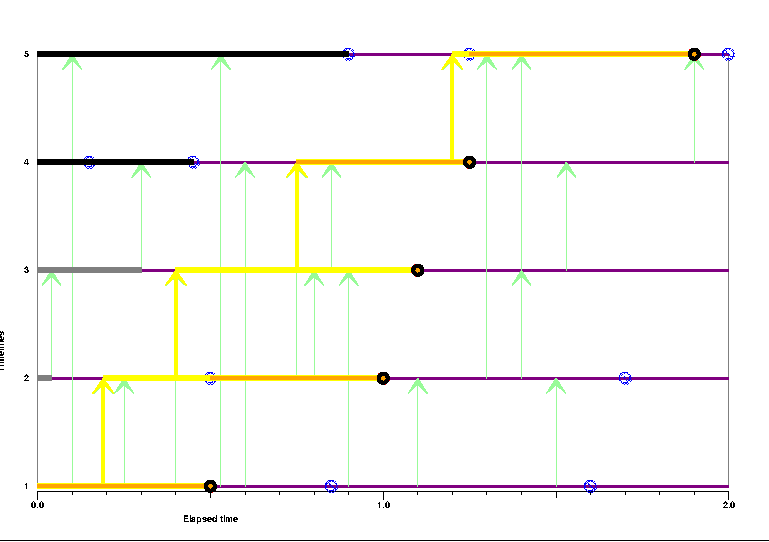
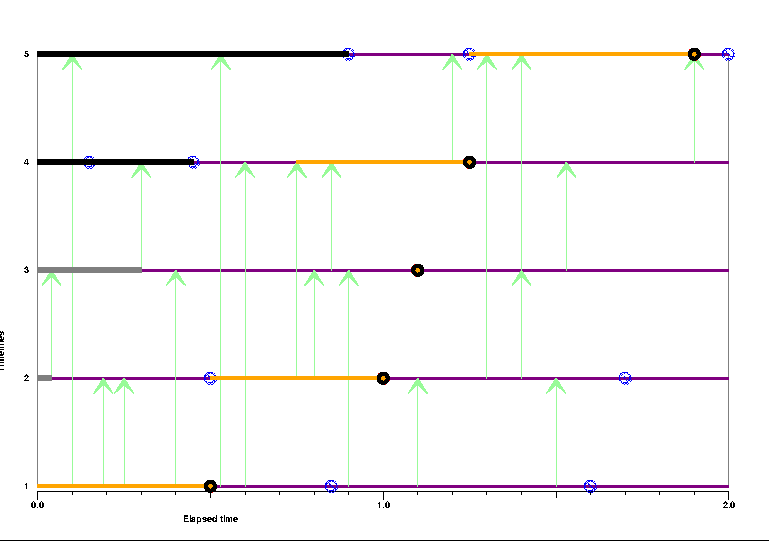
I've now replaced all figures with figures generated from python3 program. HOWEVER I believe this now reveals some issues with the python3 program! More later.

Changed region(s): [[0.0624, 0.2952, 0.5306, 0.9151], [0.5618, 0.0886, 0.8739, 0.2952]]

diff --git a/PerfectEpidemics.tex b/PerfectEpidemics.tex
@@ -1185,8 +1185,8 @@ actual infection of that time-line.
 % \NB[WSK3]{Confusing to talk about rates here?}
 
 % = = = = = = = = = = = = = = = = = = = = = = =  
-\subsection{Evolution of the constrained Markov chain}\label{ssec:evolution}
-\NB[WSK3]{Better and more expressive title for Section \ref{ssec:evolution}?}
+\subsection{Detailed description of the constrained Markov chain}\label{ssec:evolution}
+\xNB[WSK3]{Better and more expressive title for Section \ref{ssec:evolution}?}
 % Subsection 4.3: discussion of the way in which
 % the constrained Markov chain evolves, simplifying
 % the algorithmic state to aid computation and
@@ -1194,13 +1194,26 @@ actual infection of that time-line.
 
 It is helpful to develop a vocabulary describing the boundaries of five regions of time-line space, depending implicitly on the algorithmic time. For \(m=1\),\ldots, \(n\) and \(k\in\Integers\), at algorithmic time \(\tau=2kT\) we denote by \(\Infections^m_k\) the point-set of active or potential infections originating from time-line \(m\) occurring before removal time \(\rho^m\).%
 \xNB[WSK2]{Is ``realized'' the opposite of ``potential''? I think the use of this terminology needs careful checking: I suspect it is used carelessly in the present text.}
-Similarly, we may consider the point-set \(\Removals^m_k\) of potential removals assigned to time-line \(m\) occurring before removal time \(\rho^m\):
-\[ \Removals^m_k = \{t\,:\, [t;m] \in \Poisson_k, \text{with }  0\le t\le \rho^m \} \,.\]
+Similarly, we may consider the point-set \(\Removals^m_k\) of potential removals assigned to time-line \(m\) occurring before removal time \(\rho^m\).
+Thus
+\NB[WSK3]{SBC please check explicit definition of $\Infections^m_k$!}
 \xNB[SBC]{Is this notation potentially confusing, when we're using $R_t$ for removal process?} %
+\begin{align*}
+ \Infections^m_k \quad&=\quad 
+ \{t\,:\, [t;m,n] \in \Poisson_k, 
+     \text{with }  0\le t\le \rho^m \} \,,
+ \\
+ \Removals^m_k   \quad&=\quad
+ \{t\,:\, [t;m] \in \Poisson_k, 
+     \text{with }  0\le t\le \rho^m \} \,.
+\end{align*}
+% \[ \Removals^m_k = \{t\,:\, [t;m] \in \Poisson_k, \text{with }  0\le t\le \rho^m \} \,.\]
 We denote the point-set of \emph{conditioned} removals
-assigned to time-line \(m\) at algorithmic time \(\tau=2kT\) by \(\Conditioned^m_k\). We shall write 
-\[ \Conditioned^{m:n}_k = \bigcup_{s=m}^n \Conditioned^s_k \,, \quad\text{and}\quad \Removals^{1:m}_k = \bigcup_{s=1}^m \Removals^s_k \,. \]
+assigned to time-line \(m\) at algorithmic time \(\tau=2kT\) by \(\Conditioned^m_k\). 
+Additionally,
 \xNB[SBC]{Possibly simplify notation by replacing $\Conditioned^{m+}$ with $\Conditioned^{m:n}$ and $\Removals^{m-}$ with $\Removals^{1:m}$?}
+% . We shall write 
+\[ \Conditioned^{m:n}_k = \bigcup_{s=m}^n \Conditioned^s_k \,, \quad\text{and}\quad \Removals^{1:m}_k = \bigcup_{s=1}^m \Removals^s_k \,. \]
 % \xNB[WSK2]{Consider avoiding superscripting by referring to (process-time) point-sets rather than individual incidents.}
 % Finally we denote by  \(\mu_m\) the mark for the realized removal on time-line \(m\) (occurring at process-time \(\rho^m\)).
 % \xNB[SBC]{Possibly simplify notation by replacing $\Conditioned^{m+}$ with $\Conditioned^m$ and $\Removals^{m-}$ with $\Removals^m$?}
@@ -1218,7 +1231,14 @@ However it is always possible for \(\Removals^m_k=\emptyset\) for some or all \(
  The first region is the \emph{``no-fly'' zone}.%
 \xNB[WSK2]{Do we need specifically to define the no-fly zone boundary? SBC: yes, I think so.}
  This is made up of initial portions of time-lines defined by the property, if a time-line point in this region is infected then there will result an unconditioned removal.
- At algorithmic time \(\tau=2kT\), the boundary of the no-fly zone is located at process time \(\xi^m_k\) for time-line \(m\), defined inductively by
+ At algorithmic time \(\tau=2kT\), the 
+%  boundary of the 
+ no-fly zone is 
+ given by \([0,\xi^m_k]\)
+%  located at process time \(\xi^m_k\) 
+ for time-line \(m\), 
+ where \(\xi^m_k\) is
+ defined inductively by 
  \begin{align}\label{eq:boundary-time}
  \xi^n_k \quad=&\quad \sup \Removals^{1:n}_k\,,  
  &\text{ the last unrealized removal on or below time-line }n\,,
@@ -1226,13 +1246,15 @@ However it is always possible for \(\Removals^m_k=\emptyset\) for some or all \(
  \xi^m_k \quad=&\quad \sup \Removals^{1:m}_k \vee \sup\left\{\Infections^m_k\cap[0,\xi^{m+1}_k\right)\}
  &\text{ if }1<m<n\,.
  \end{align}
- (Here and throughout we use the convention that \(\sup\emptyset:=-\infty\)
- and \(\inf\emptyset:=\infty\).) Thus by construction \(\xi^m_k\) must be increasing in \(m\).
- Proposals of potential infections of ``no-fly'' portions of time-lines must be forbidden.
- Figure \ref{fig:no-fly} illustrates this construction.
+ (Here and throughout we use the convention that \(\sup\emptyset=-\infty\)
+ and \(\inf\emptyset=\infty\).) Thus by construction \(\xi^m_k\) must be increasing in \(m\).
+ Proposals of potential infections of no-fly portions of time-lines must be forbidden.
+ Figure \ref{fig:no-fly} illustrates the construction
+ of the no-fly zone.
  \begin{Figure}
   \includegraphics[width=3in]{no-fly}
-  \caption{Illustration of ``No-fly'' zone (heavy black / grey lines starting from left of figure along time-lines) for this graphical representation. Note also the
+  \caption{Illustration of no-fly zone (heavy black / grey lines starting from left of figure along time-lines) for this graphical representation. 
+  Note in passing the
   ``late zone'', composed of portions of time-lines \emph{after} actual removals.
   \label{fig:no-fly}}
  \end{Figure}
@@ -1260,13 +1282,21 @@ However it is always possible for \(\Removals^m_k=\emptyset\) for some or all \(
 \NB[SBC]{I've added reference to the no-fly zone into this definition. Poss not needed under conditioning, but I think that it makes the proof of monotonicity clearer later on.}
  Note that \(\phi^m_k=\infty\) cannot be allowed to occur for any \(m\) if we condition on all individuals eventually being removed.%
 \xNB[WSK2]{Reformulate (\ref{eq:epidemic}) in a manner similar to that of (\ref{eq:last-epidemic}): avoid the case of $\infty$ by noting this won't happen under conditioning.}
- Necessarily the epidemic must avoid the no-fly zone. Figure \ref{fig:epidemic} illustrates this construction.
+ Necessarily the epidemic must avoid the no-fly zone. Figure \ref{fig:epidemic} illustrates the construction
+ of the pre-infection zone. 
+ \NB[WSK3]{Figure \ref{fig:epidemic}: worried that
+ last viable infections have been missed out by the simulation!}
  \begin{Figure}
-  \includegraphics[width=3in]{TimelinesSBC3.pdf}
-  \caption{Pre-infection zone and epidemic trajectory for this graphical representation.\label{fig:epidemic}}
+  \includegraphics[width=3in]{epidemic}
+  \caption{No-fly zone, pre-infection zone and epidemic trajectory for this graphical representation. The pre-infection zone for each time-line lies between
+  the no-fly zone and the commencement of the infected region of the time-line.\label{fig:epidemic}} 
  \end{Figure}
 
- The \emph{last viable epidemic} is the last epidemic trajectory which avoids unconditioned removals and produces all conditioned removals.
+ The \emph{last viable epidemic} is the last
+ feasible epidemic trajectory which 
+ would avoid activating
+ any unconditioned removals and 
+ would produce all conditioned removals.
  Together with the epidemic trajectory, it delimits the third region
  -- the \emph{``infection window''} -- within which it is possible for an epidemic to proceed to completion.
  The last viable epidemic is located at boundary time \(\eta^m\) for
@@ -1305,8 +1335,8 @@ However it is always possible for \(\Removals^m_k=\emptyset\) for some or all \(
   Figure \ref{fig:last-epidemic} illustrates this construction.
 \NB[WSK3]{Figure \ref{fig:last-epidemic} needs checking: May not be what is required.}
  \begin{Figure}
-  \includegraphics[width=3in]{Timelines4.pdf}
-  \caption{Infection window and last viable epidemic trajectory for this graphical representation.\label{fig:last-epidemic}}
+  \includegraphics[width=3in]{last-epidemic}
+  \caption{Infection window and last viable epidemic trajectory (pink vertical arrows, sometimes overwriting yellow vertical arrows for the first epidemic) for this graphical representation.\label{fig:last-epidemic}}
  \end{Figure}
 
  The fourth region
@@ -1330,8 +1360,9 @@ conditioned removal assigned to that time-line
 (\(\inf\Conditioned^m\)), and all such removals must occur before
 individual \(m\) is removed (at time \(\rho^m\)).
 \xNB[WSK2]{Good names for second, third, fourth and fifth regions?} 
+\NB[WSK3]{Figure \ref{fig:fourth-and-fifth}: suspect last-viable epidemic is sometimes wrong here.}
   \begin{Figure}
-  \includegraphics[width=3in]{Timelines5.pdf}
+  \includegraphics[width=3in]{fourth-and-fifth.png}
   \caption{Post-infection and dead zones for this graphical representation.\label{fig:fourth-and-fifth}}
  \end{Figure}
 
